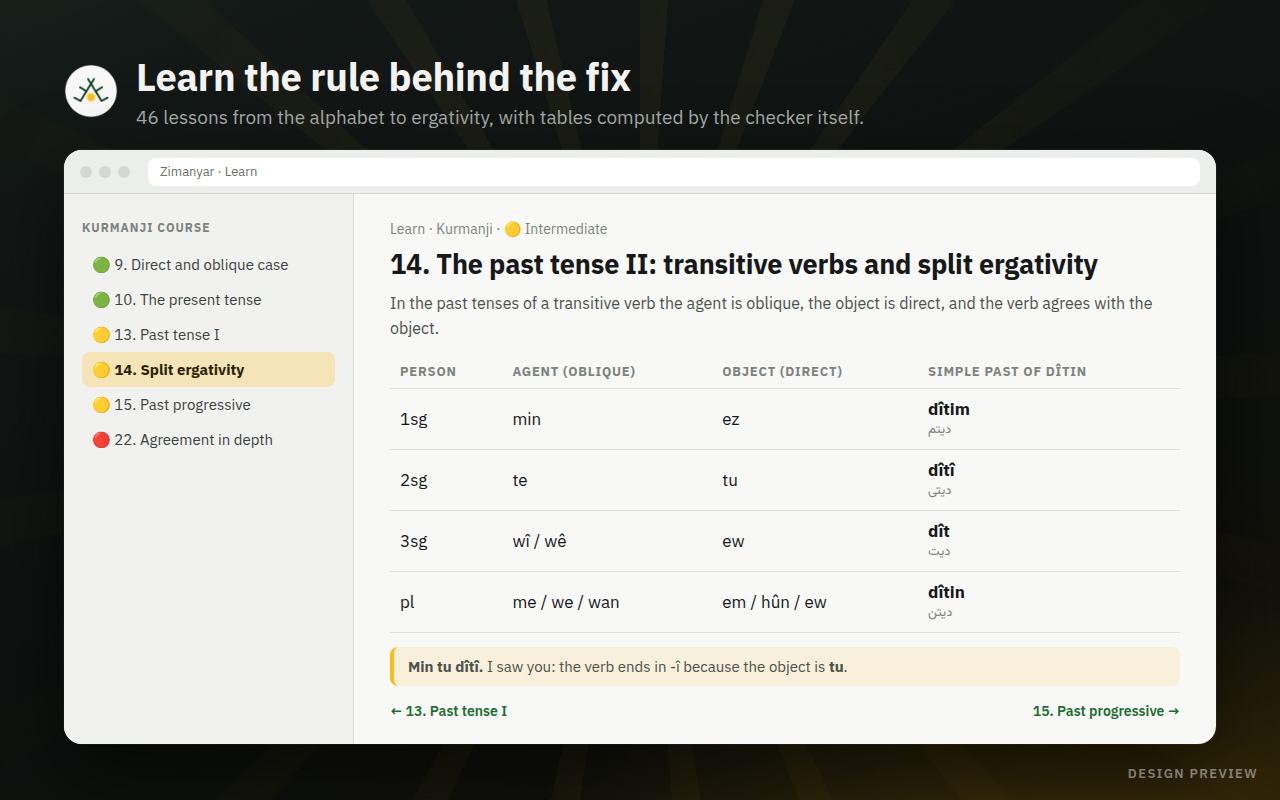
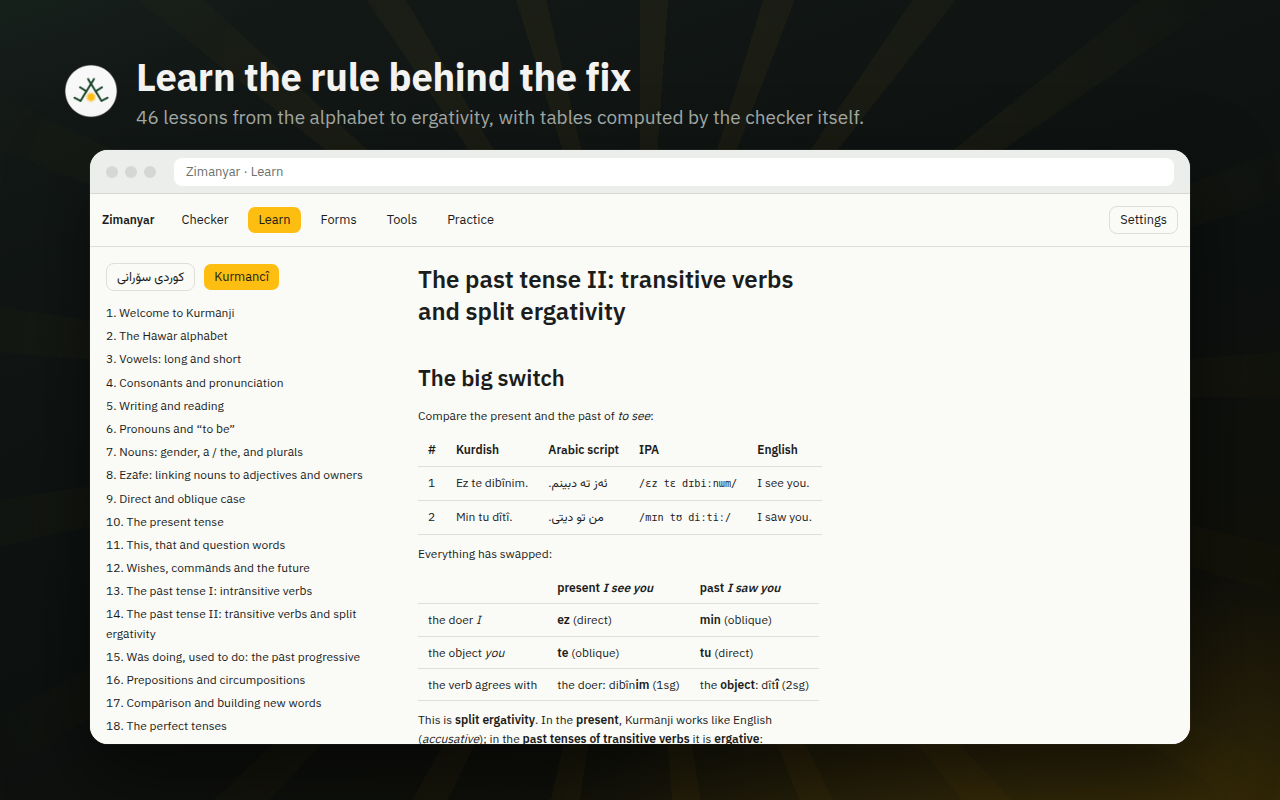
feat(brand): frame real app screenshots in the store screenshots
The four store screenshots now show Playwright captures of the built apps instead of an HTML mock-up, and lose the Design preview label.

diff --git a/scripts/marketing/screenshot.html b/scripts/marketing/screenshot.html
@@ -7,36 +7,18 @@
 <script src="data.js"></script>
 <script src="components.js"></script>
 <style>
+  /* The interface in these images is real: Playwright screenshots of the built apps (make screenshots). */
   .caption { position: absolute; left: 64px; top: 52px; right: 64px; display: flex; align-items: center; gap: 18px; }
   .caption img { width: 54px; height: 54px; }
   .caption h1 { font-size: 38px; font-weight: 700; letter-spacing: -0.3px; }
   .caption p { color: var(--muted); font-size: 19px; margin-top: 4px; }
+  .caption.side { top: 0; bottom: 0; right: auto; width: 330px; flex-direction: column; align-items: flex-start; justify-content: center; }
+  .caption.side img { width: 64px; height: 64px; margin-bottom: 8px; }
+  .caption.side h1 { font-size: 40px; line-height: 1.15; }
+  .caption.side p { font-size: 20px; line-height: 1.45; margin-top: 14px; }
   .stage { position: absolute; left: 64px; right: 64px; top: 150px; bottom: 56px; }
   .abs { position: absolute; }
-
-  /* learn view */
-  .lessonwin { display: grid; grid-template-columns: 290px 1fr; height: 100%; }
-  .toc { background: #f1f2ef; border-inline-end: 1px solid var(--line-dark); padding: 22px 18px; font-size: 15px; }
-  .toc h4 { font-size: 12px; letter-spacing: 1px; text-transform: uppercase; color: #7d837f; margin: 4px 0 12px; }
-  .toc div { padding: 8px 10px; border-radius: 8px; color: #3d423f; }
-  .toc div.on { background: rgba(254, 189, 17, 0.25); font-weight: 700; color: #2b2400; }
-  .doc { padding: 26px 36px; overflow: hidden; }
-  .crumbs { font-size: 14px; color: #7d837f; }
-  .doc h2 { font-size: 27px; margin: 8px 0 10px; letter-spacing: -0.2px; }
-  .doc p { color: #4c524e; font-size: 16px; line-height: 1.55; margin-bottom: 14px; }
-  .note { border-inline-start: 4px solid var(--sun); background: rgba(254, 189, 17, 0.12); padding: 10px 14px; border-radius: 8px; font-size: 15px; color: #4c524e; margin-top: 14px; }
-  .pn { display: flex; justify-content: space-between; margin-top: 16px; font-size: 14px; font-weight: 600; color: #1d6e34; }
-
-  /* everywhere view */
-  .popup { width: 330px; }
-  .popup .body { padding: 18px; display: flex; flex-direction: column; gap: 14px; font-size: 15px; }
-  .row { display: flex; justify-content: space-between; align-items: center; }
-  .switch { width: 44px; height: 24px; border-radius: 999px; background: var(--green-deep); position: relative; }
-  .switch::after { content: ""; position: absolute; right: 3px; top: 3px; width: 18px; height: 18px; border-radius: 50%; background: #fff; }
-  .counts { display: flex; gap: 8px; }
-  .count { flex: 1; border-radius: 10px; padding: 10px; text-align: center; font-weight: 700; font-size: 22px; }
-  .count small { display: block; font-size: 12px; font-weight: 600; opacity: 0.8; }
-  .btn { border-radius: 10px; padding: 10px; text-align: center; font-weight: 700; background: var(--paper-ink); color: #fff; }
+  .shot { display: block; object-fit: cover; object-position: left top; }
   .label { position: absolute; font-size: 13px; font-weight: 700; letter-spacing: 1.2px; text-transform: uppercase; color: var(--sun); }
 </style>
 </head>
@@ -44,81 +26,49 @@
 <div class="rays"></div>
 <div class="caption" id="caption"></div>
 <div class="stage" id="stage"></div>
-<div class="preview-tag">Design preview</div>
 <script>
   const view = param("view", "check");
   const captions = {
     check: ["Underlines mistakes as you type", "Sorani and Kurmanji, in any text field, completely offline."],
-    explain: ["Explains why, not just what", "Every finding has a reason, a fix with pronunciation, examples and a lesson."],
+    explain: ["Explains why, not just what", "Every finding has a reason, a fix, examples and lessons."],
     learn: ["Learn the rule behind the fix", "46 lessons from the alphabet to ergativity, with tables computed by the checker itself."],
     everywhere: ["Everywhere you write", "Chrome, Firefox and Safari extension, Linux desktop app and a command-line tool."],
   };
   const [title, sub] = captions[view];
-  document.getElementById("caption").innerHTML =
-    `<img src="../../assets/icons/png/logo-128.png" alt=""><div><h1>${title}</h1><p>${sub}</p></div>`;
+  const caption = document.getElementById("caption");
+  caption.innerHTML = `<img src="../../assets/icons/png/logo-128.png" alt=""><div><h1>${title}</h1><p>${sub}</p></div>`;
   const stage = document.getElementById("stage");
+  const shot = (name) => `../../assets/screenshots/${name}.png`;
 
-  if (view === "check") {
-    stage.innerHTML = `
-      <div class="abs" style="left:0;top:0">${browserHTML("ckb", { width: 760 })}</div>
-      <div class="abs" style="left:520px;top:150px">${cardHTML("ckb", "door")}</div>
-      <div class="abs" style="left:0;top:330px;width:470px"><div class="findings">
-        ${["door", "agent", "station"].map((id) => {
-          const f = Z.ckb.findings[id];
-          const col = { error: "var(--red)", warning: "var(--amber)", orthography: "var(--blue)" }[f.severity];
-          return `<div class="finding-row"><span class="bar" style="background:${col}"></span>
-            <span>${bdi(f.fixes[0].t)}</span><span style="color:var(--muted);font-size:14px">${esc(f.rule)}</span></div>`;
-        }).join("")}
-      </div></div>`;
-  }
+  /** A browser window around a screenshot, scaled to its width and cut to height. */
+  const windowHTML = (name, { url, width, height, dark = false }) =>
+    `<div class="window${dark ? " dark" : ""}" style="width:${width}px">
+      <div class="titlebar"><div class="lights"><span></span><span></span><span></span></div><div class="url">${esc(url)}</div></div>
+      <div style="height:${height}px;overflow:hidden"><img class="shot" src="${shot(name)}" alt="" style="width:${width}px"></div>
+    </div>`;
 
-  if (view === "explain") {
-    stage.innerHTML = `
-      <div class="abs" style="left:0;top:0">${browserHTML("kmr", { width: 700 })}</div>
-      <div class="abs" style="left:740px;top:0">${cardHTML("kmr", "agree", { dark: false }).replace('class="card"', 'class="card" style="--card-w:412px"')}</div>
-      <div class="abs" style="left:0;top:262px">${cardHTML("kmr", "case", { dark: true, examples: 1, lessons: 1 }).replace('class="card dark"', 'class="card dark" style="--card-w:340px"')}</div>
-      <div class="abs" style="left:360px;top:262px">${cardHTML("kmr", "turkish", { dark: true, examples: 1, lessons: 1 }).replace('class="card dark"', 'class="card dark" style="--card-w:340px"')}</div>`;
+  // The extension on a page where people write: 960 × 900 captures at 0.75, next to the caption.
+  if (view === "check" || view === "explain") {
+    caption.classList.add("side");
+    stage.style.cssText = "left:466px;top:40px;bottom:40px;right:64px";
+    const name = view === "check" ? "extension-store-ckb" : "extension-store-kmr";
+    stage.innerHTML = windowHTML(name, { url: "mail.example", width: 720, height: 675 });
   }
 
   if (view === "learn") {
-    const L = Z.lesson;
-    stage.innerHTML = `<div class="window" style="height:100%">
-      <div class="titlebar"><div class="lights"><span></span><span></span><span></span></div><div class="url">Zimanyar · Learn</div></div>
-      <div class="lessonwin" style="height:calc(100% - 44px)">
-        <div class="toc"><h4>Kurmanji course</h4>${L.toc.map(([lvl, t, on]) => `<div class="${on ? "on" : ""}">${lvl} ${esc(t)}</div>`).join("")}</div>
-        <div class="doc">
-          <div class="crumbs">${esc(L.crumbs)}</div>
-          <h2>${esc(L.title)}</h2>
-          <p>${esc(L.intro)}</p>
-          <table class="paradigm"><tr><th>person</th><th>agent (oblique)</th><th>object (direct)</th><th>simple past of dîtin</th></tr>
-            ${L.rows.map((r) => `<tr><td>${r[0]}</td><td>${r[1]}</td><td>${r[2]}</td><td><b>${r[3]}</b><small>${r[4]}</small></td></tr>`).join("")}
-          </table>
-          <div class="note"><b>Min tu dîtî.</b> I saw you: the verb ends in -î because the object is <b>tu</b>.</div>
-          <div class="pn"><span>← 13. Past tense I</span><span>15. Past progressive →</span></div>
-        </div>
-      </div></div>`;
+    stage.innerHTML = `<div class="abs" style="left:26px;top:0">${windowHTML("extension-lesson", { url: "Zimanyar · Learn", width: 1100, height: 550 })}</div>`;
   }
 
   if (view === "everywhere") {
     stage.innerHTML = `
       <span class="label" style="left:0;top:-4px">Browser popup</span>
-      <div class="abs window" style="left:0;top:22px;width:330px"><div class="body" style="padding:18px;display:flex;flex-direction:column;gap:14px;font-size:15px">
-        <div class="row"><b>Zimanyar on mail.example</b><span class="switch"></span></div>
-        <div class="row" style="color:#5b615d"><span>Field language</span><b>Kurmancî</b></div>
-        <div class="counts"><div class="count" style="background:rgba(229,72,77,.12);color:#c0262c">1<small>error</small></div>
-          <div class="count" style="background:rgba(240,160,32,.15);color:#a8670a">1<small>warning</small></div>
-          <div class="count" style="background:rgba(91,156,240,.14);color:#2a64b8">1<small>spelling</small></div></div>
-        <div class="btn">Open full view</div></div></div>
-      <span class="label" style="left:370px;top:-4px">Linux desktop</span>
-      <div class="abs window dark" style="left:370px;top:22px;width:782px">
-        <div class="titlebar"><div class="lights"><span></span><span></span><span></span></div><span>Zimanyar · essay.md</span></div>
-        <div style="display:grid;grid-template-columns:1fr 300px">
-          <div class="editor" dir="rtl" lang="ckb" style="font-size:24px">${editorHTML("ckb")}</div>
-          <div style="padding:18px;border-inline-start:1px solid var(--line)"><div class="findings">
-            ${["door", "agent", "station"].map((id) => `<div class="finding-row"><b>${bdi(Z.ckb.findings[id].fixes[0].t)}</b></div>`).join("")}
-          </div></div></div></div>
-      <span class="label" style="left:0;top:356px">Command line</span>
-      <div class="abs window dark" style="left:0;top:382px;width:1152px"><div class="terminal">${Z.cli.join("<br>")}</div></div>`;
+      <div class="abs window" style="left:0;top:22px;width:300px;height:270px">
+        <img class="shot" src="${shot("extension-popup-site")}" alt="" style="width:300px"></div>
+      <span class="label" style="left:330px;top:-4px">Linux desktop</span>
+      <div class="abs" style="left:330px;top:22px">${windowHTML("desktop-main", { url: "Zimanyar", width: 822, height: 226 })}</div>
+      <span class="label" style="left:0;top:320px">Command line</span>
+      <div class="abs window dark" style="left:0;top:346px;width:864px;height:242px">
+        <img class="shot" src="${shot("cli-check")}" alt="" style="width:864px"></div>`;
   }
 </script>
 </body>

diff --git a/scripts/marketing/style.css b/scripts/marketing/style.css
@@ -70,10 +70,6 @@ body {
 .footer-line { color: var(--muted); font-size: 18px; }
 .footer-line b { color: var(--text); }
 
-.preview-tag {
-  position: absolute; right: 22px; bottom: 18px; font-size: 13px; font-weight: 600; letter-spacing: 1.4px;
-  text-transform: uppercase; color: rgba(255, 255, 255, 0.45);
-}
 
 /* ---------- Mock UI ---------- */
 
@@ -143,30 +139,6 @@ body {
   background: rgba(254, 189, 17, 0.18); color: #7a5d00;
 }
 .card.dark .lesson { color: var(--sun); background: rgba(254, 189, 17, 0.12); }
-
-/* Findings list */
-.findings { display: flex; flex-direction: column; gap: 10px; }
-.finding-row {
-  display: flex; gap: 12px; align-items: center; padding: 12px 14px; border-radius: 12px;
-  background: rgba(255, 255, 255, 0.04); border: 1px solid var(--line); font-size: 16px;
-}
-.finding-row .bar { width: 4px; align-self: stretch; border-radius: 4px; }
-.finding-row b { font-weight: 700; }
-
-/* Table */
-table.paradigm { border-collapse: collapse; width: 100%; font-size: 17px; }
-table.paradigm th { text-align: start; font-size: 13px; text-transform: uppercase; letter-spacing: 0.8px; color: #7d837f; padding: 8px 10px; border-bottom: 1px solid var(--line-dark); }
-table.paradigm td { padding: 9px 10px; border-bottom: 1px solid var(--line-dark); }
-table.paradigm td b { font-weight: 700; }
-table.paradigm td small { display: block; font-family: var(--arabic); color: #7d837f; font-size: 13px; }
-
-/* Terminal */
-.terminal { white-space: pre; background: #0b0e0d; color: #d6dbd8; font-family: var(--mono); font-size: 15px; line-height: 1.6; padding: 18px 20px; }
-.terminal .p { color: var(--sun); }
-.terminal .e { color: #ff8a8e; }
-.terminal .w { color: #ffc266; }
-.terminal .g { color: #6fd38e; }
-.terminal .m { color: #8b938f; }
 
 /* Interface mock-ups are English UI: keep them left to right inside RTL pages. */
 .demo, .card { text-align: left; }

diff --git a/scripts/marketing/data.js b/scripts/marketing/data.js
@@ -101,30 +101,4 @@ window.Z = {
       },
     },
   },
-
-  // Kurmanji lesson 14 paradigm, from zimankit's generated tables.
-  lesson: {
-    crumbs: "Learn · Kurmanji · 🟡 Intermediate",
-    title: "14. The past tense II: transitive verbs and split ergativity",
-    intro: "In the past tenses of a transitive verb the agent is oblique, the object is direct, and the verb agrees with the object.",
-    rows: [
-      ["1sg", "min", "ez", "dîtim", "دیتم"],
-      ["2sg", "te", "tu", "dîtî", "دیتی"],
-      ["3sg", "wî / wê", "ew", "dît", "دیت"],
-      ["pl", "me / we / wan", "em / hûn / ew", "dîtin", "دیتن"],
-    ],
-    toc: [
-      ["🟢", "9. Direct and oblique case"], ["🟢", "10. The present tense"], ["🟡", "13. Past tense I"],
-      ["🟡", "14. Split ergativity", true], ["🟡", "15. Past progressive"], ["🔴", "22. Agreement in depth"],
-    ],
-  },
-
-  cli: [
-    '<span class="p">$</span> zimanyar check --lang kmr email.txt',
-    '<span class="m">email.txt</span>',
-    '  1:22  <span class="e">error</span>    dîtim → <span class="g">dîtî</span>     verb agrees with the object  <span class="m">kmr.ergative.agreement</span>',
-    '  1:42  <span class="w">warning</span>  mal → <span class="g">malê</span>       oblique after li             <span class="m">kmr.morph.case-after-preposition</span>',
-    '  1:59  <span class="w">orthog.</span>  dıçım → <span class="g">diçim</span>   Turkish ı                    <span class="m">kmr.orth.turkish-letter</span>',
-    '<span class="m">3 findings · learn: zimanyar lesson kmr 14</span>',
-  ],
 };

diff --git a/assets/marketing/README.md b/assets/marketing/README.md
@@ -4,7 +4,7 @@ Rendered by `make marketing` (`scripts/marketing/render.sh`, headless Chrome wit
 
 Every Kurdish example and finding in these images is real: the rules come from the rule catalogue, the IPA is computed by zimankit, and the lessons exist in the tutorials. The content lives in `scripts/marketing/data.js`.
 
-> **Design preview.** Until the apps exist, the interface in these images is a design mock-up rendered from HTML, and the store screenshots carry a "Design preview" label. Once the apps are built, the store screenshots are replaced by real Playwright screenshots of the built apps (`assets/screenshots/`); the banner, tiles and ads keep this template system.
+The interface in the four store screenshots is real: they frame Playwright screenshots of the built apps from `assets/screenshots/` (the extension on a compose page, its popup, the lesson reader, the desktop app and `zimanyar check`). Run `make screenshots` before `make marketing` when the apps change. The banner, the promo tiles and the ads keep their HTML rendering of the interface, built from the same real findings.
 
 | file | size | where it is used |
 |---|---|---|
